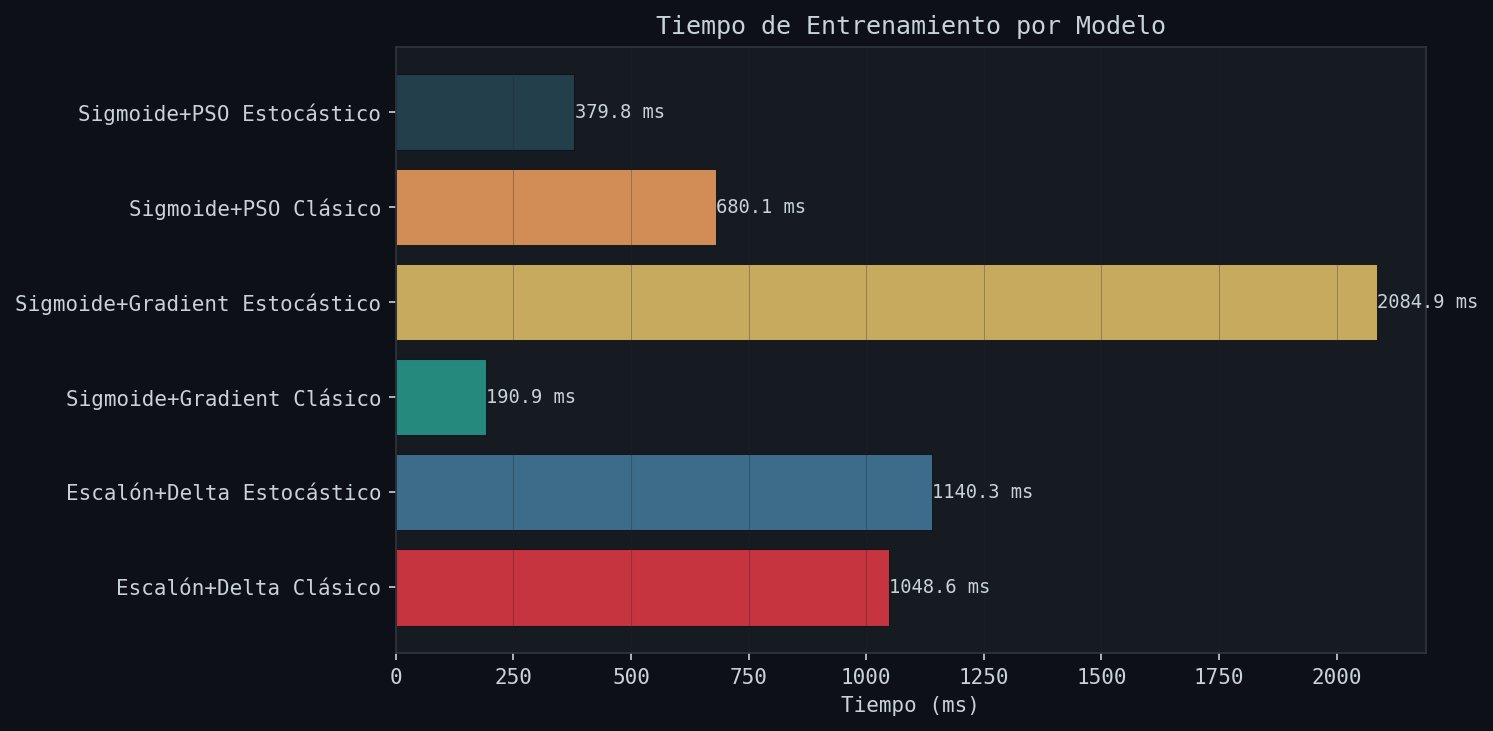
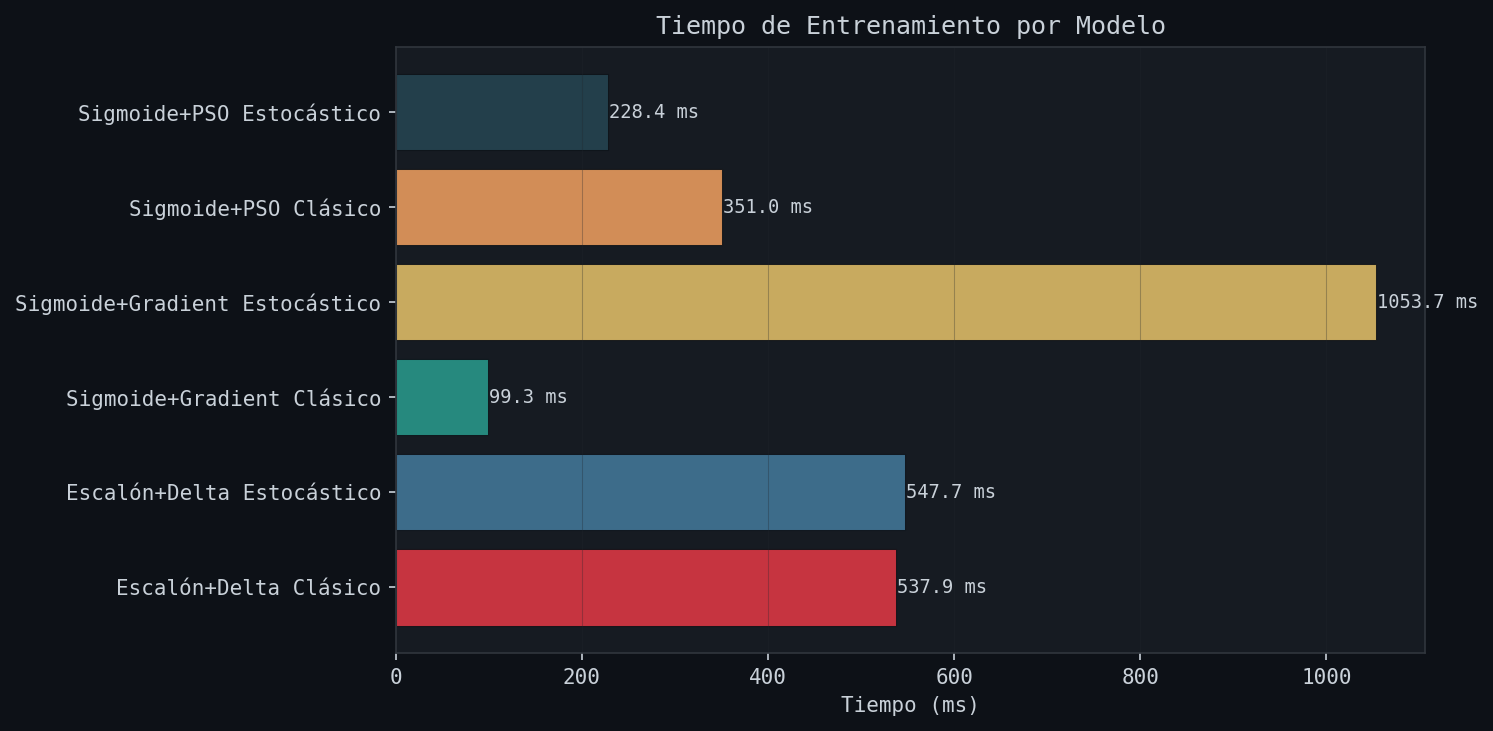
Add README and results summary for perceptron models, update training times visualization

diff --git a/perceptron/README.md b/perceptron/README.md
@@ -1,0 +1,257 @@
+# 🧠 PERCEPTRÓN MULTICONFIGURACIÓN — BREAST CANCER WISCONSIN
+
+```
+██████████████████████████████████████████████████████████████████████
+█      PERCEPTRÓN MULTICONFIGURACION — BREAST CANCER WISCONSIN       █
+██████████████████████████████████████████████████████████████████████
+
+[1/4] Cargando dataset Breast Cancer Wisconsin...
+  Muestras:        569
+  Características: 30
+  Clases: {np.str_('malignant'): np.int64(212), np.str_('benign'): np.int64(357)}
+  Train: 455 muestras | Test: 114 muestras
+
+[2/4] Definiendo modelos...
+
+[3/4] Entrenando y evaluando modelos...
+
+  Entrenando: Escalón+Delta Clásico ...
+
+══════════════════════════════════════════════════════════════════════
+═                       Escalón+Delta Clásico                        ═
+══════════════════════════════════════════════════════════════════════
+
+  Métrica                     Train         Test
+  --------------------------------------------
+  Accuracy                   0.9824       0.9298
+  Precision                  0.9860       0.9571
+  Recall                     0.9860       0.9306
+  F1                         0.9860       0.9437
+  Mcc                        0.9624       0.8513
+  AUC_ROC                    0.9988       0.9805
+
+  Tiempo entrenamiento          : 537.90 ms
+  Épocas ejecutadas             : 200
+  Convergencia en época         : No convergió
+
+  Estadísticas de pesos finales:
+    Media=-0.0339  Std=0.1827  Min=-0.3862  Max=0.4846  Norm=1.0178
+
+  Reporte de clasificación (Test):
+                  precision    recall  f1-score   support
+    
+         Maligno       0.89      0.93      0.91        42
+         Benigno       0.96      0.93      0.94        72
+    
+        accuracy                           0.93       114
+       macro avg       0.92      0.93      0.93       114
+    weighted avg       0.93      0.93      0.93       114
+
+  Entrenando: Escalón+Delta Estocástico ...
+
+══════════════════════════════════════════════════════════════════════
+═                     Escalón+Delta Estocástico                      ═
+══════════════════════════════════════════════════════════════════════
+
+  Métrica                     Train         Test
+  --------------------------------------------
+  Accuracy                   0.9978       0.9561
+  Precision                  0.9965       0.9718
+  Recall                     1.0000       0.9583
+  F1                         0.9982       0.9650
+  Mcc                        0.9953       0.9064
+  AUC_ROC                    0.9993       0.9868
+
+  Tiempo entrenamiento          : 547.69 ms
+  Épocas ejecutadas             : 200
+  Convergencia en época         : No convergió
+
+  Estadísticas de pesos finales:
+    Media=-0.0370  Std=0.1760  Min=-0.3480  Max=0.4889  Norm=0.9850
+
+  Reporte de clasificación (Test):
+                  precision    recall  f1-score   support
+    
+         Maligno       0.93      0.95      0.94        42
+         Benigno       0.97      0.96      0.97        72
+    
+        accuracy                           0.96       114
+       macro avg       0.95      0.96      0.95       114
+    weighted avg       0.96      0.96      0.96       114
+
+  Entrenando: Sigmoide+Gradient Clásico ...
+
+══════════════════════════════════════════════════════════════════════
+═                     Sigmoide+Gradient Clásico                      ═
+══════════════════════════════════════════════════════════════════════
+
+  Métrica                     Train         Test
+  --------------------------------------------
+  Accuracy                   0.9868       0.9737
+  Precision                  0.9827       0.9859
+  Recall                     0.9965       0.9722
+  F1                         0.9895       0.9790
+  Mcc                        0.9719       0.9439
+  AUC_ROC                    0.9964       0.9957
+
+  Tiempo entrenamiento          : 99.30 ms
+  Épocas ejecutadas             : 300
+  Convergencia en época         : No convergió
+
+  Estadísticas de pesos finales:
+    Media=-0.2859  Std=0.2902  Min=-0.6630  Max=0.3037  Norm=2.2314
+
+  Reporte de clasificación (Test):
+                  precision    recall  f1-score   support
+    
+         Maligno       0.95      0.98      0.96        42
+         Benigno       0.99      0.97      0.98        72
+    
+        accuracy                           0.97       114
+       macro avg       0.97      0.97      0.97       114
+    weighted avg       0.97      0.97      0.97       114
+
+  Entrenando: Sigmoide+Gradient Estocástico ...
+
+══════════════════════════════════════════════════════════════════════
+═                   Sigmoide+Gradient Estocástico                    ═
+══════════════════════════════════════════════════════════════════════
+
+  Métrica                     Train         Test
+  --------------------------------------------
+  Accuracy                   0.9890       0.9737
+  Precision                  0.9895       0.9726
+  Recall                     0.9930       0.9861
+  F1                         0.9912       0.9793
+  Mcc                        0.9765       0.9433
+  AUC_ROC                    0.9991       0.9924
+
+  Tiempo entrenamiento          : 1053.75 ms
+  Épocas ejecutadas             : 300
+  Convergencia en época         : 71
+
+  Estadísticas de pesos finales:
+    Media=-0.7652  Std=2.0469  Min=-3.8167  Max=5.7224  Norm=11.9694
+
+  Reporte de clasificación (Test):
+                  precision    recall  f1-score   support
+    
+         Maligno       0.98      0.95      0.96        42
+         Benigno       0.97      0.99      0.98        72
+    
+        accuracy                           0.97       114
+       macro avg       0.97      0.97      0.97       114
+    weighted avg       0.97      0.97      0.97       114
+
+  Entrenando: Sigmoide+PSO Clásico ...
+
+══════════════════════════════════════════════════════════════════════
+═                        Sigmoide+PSO Clásico                        ═
+══════════════════════════════════════════════════════════════════════
+
+  Métrica                     Train         Test
+  --------------------------------------------
+  Accuracy                   0.9890       0.9649
+  Precision                  0.9930       0.9722
+  Recall                     0.9895       0.9722
+  F1                         0.9912       0.9722
+  Mcc                        0.9766       0.9246
+  AUC_ROC                    0.9990       0.9931
+
+  Tiempo entrenamiento          : 350.96 ms
+  Épocas ejecutadas             : 200
+  Convergencia en época         : 9
+
+  Estadísticas de pesos finales:
+    Media=-0.7987  Std=2.8132  Min=-9.0077  Max=7.3850  Norm=16.0174
+
+  Métricas PSO (enjambre):
+    Partículas            : 40
+    Mejor fitness global  : 0.032153
+    Peor pbest            : 0.037855
+    Media pbest           : 0.033207 ± 0.001188
+
+  Reporte de clasificación (Test):
+                  precision    recall  f1-score   support
+    
+         Maligno       0.95      0.95      0.95        42
+         Benigno       0.97      0.97      0.97        72
+    
+        accuracy                           0.96       114
+       macro avg       0.96      0.96      0.96       114
+    weighted avg       0.96      0.96      0.96       114
+
+  Entrenando: Sigmoide+PSO Estocástico ...
+
+══════════════════════════════════════════════════════════════════════
+═                      Sigmoide+PSO Estocástico                      ═
+══════════════════════════════════════════════════════════════════════
+
+  Métrica                     Train         Test
+  --------------------------------------------
+  Accuracy                   0.9560       0.9474
+  Precision                  0.9649       0.9714
+  Recall                     0.9649       0.9444
+  F1                         0.9649       0.9577
+  Mcc                        0.9061       0.8886
+  AUC_ROC                    0.9906       0.9901
+
+  Tiempo entrenamiento          : 228.44 ms
+  Épocas ejecutadas             : 200
+  Convergencia en época         : 6
+
+  Estadísticas de pesos finales:
+    Media=-0.4199  Std=0.8117  Min=-3.9098  Max=0.4147  Norm=5.0054
+
+  Métricas PSO (enjambre):
+    Partículas            : 30
+    Mejor fitness global  : 0.010740
+    Peor pbest            : 0.033292
+    Media pbest           : 0.018401 ± 0.004444
+
+  Reporte de clasificación (Test):
+                  precision    recall  f1-score   support
+    
+         Maligno       0.91      0.95      0.93        42
+         Benigno       0.97      0.94      0.96        72
+    
+        accuracy                           0.95       114
+       macro avg       0.94      0.95      0.94       114
+    weighted avg       0.95      0.95      0.95       114
+
+════════════════════════════════════════════════════════════════════════════════
+  TABLA RESUMEN COMPARATIVA
+════════════════════════════════════════════════════════════════════════════════
+                       Modelo Acc Train Acc Test F1 Test AUC Test MCC Test Tiempo(ms) Convergencia PSO Partículas PSO Mejor Fit
+        Escalón+Delta Clásico    0.9824   0.9298  0.9437   0.9805   0.8513      537.9            —            NaN           NaN
+    Escalón+Delta Estocástico    0.9978   0.9561  0.9650   0.9868   0.9064      547.7            —            NaN           NaN
+    Sigmoide+Gradient Clásico    0.9868   0.9737  0.9790   0.9957   0.9439       99.3            —            NaN           NaN
+Sigmoide+Gradient Estocástico    0.9890   0.9737  0.9793   0.9924   0.9433     1053.7           71            NaN           NaN
+         Sigmoide+PSO Clásico    0.9890   0.9649  0.9722   0.9931   0.9246      351.0            9             40       0.03215
+     Sigmoide+PSO Estocástico    0.9560   0.9474  0.9577   0.9901   0.8886      228.4            6             30       0.01074
+════════════════════════════════════════════════════════════════════════════════
+  → Guardado: results_summary.csv
+
+[4/4] Generando visualizaciones...
+  → Guardado: learning_curves.png
+  → Guardado: confusion_matrices.png
+  → Guardado: roc_curves.png
+  → Guardado: metrics_comparison.png
+  → Guardado: training_times.png
+  → Guardado: pso_swarm_analysis.png
+  → Guardado: weight_distributions.png
+
+══════════════════════════════════════════════════════════════════════
+═                        EJECUCIÓN COMPLETADA                        ═
+══════════════════════════════════════════════════════════════════════
+
+  Archivos generados:
+    📄 learning_curves.png
+    📄 confusion_matrices.png
+    📄 roc_curves.png
+    📄 metrics_comparison.png
+    📄 training_times.png
+    📄 pso_swarm_analysis.png
+    📄 weight_distributions.png
+    📄 results_summary.csv
+```